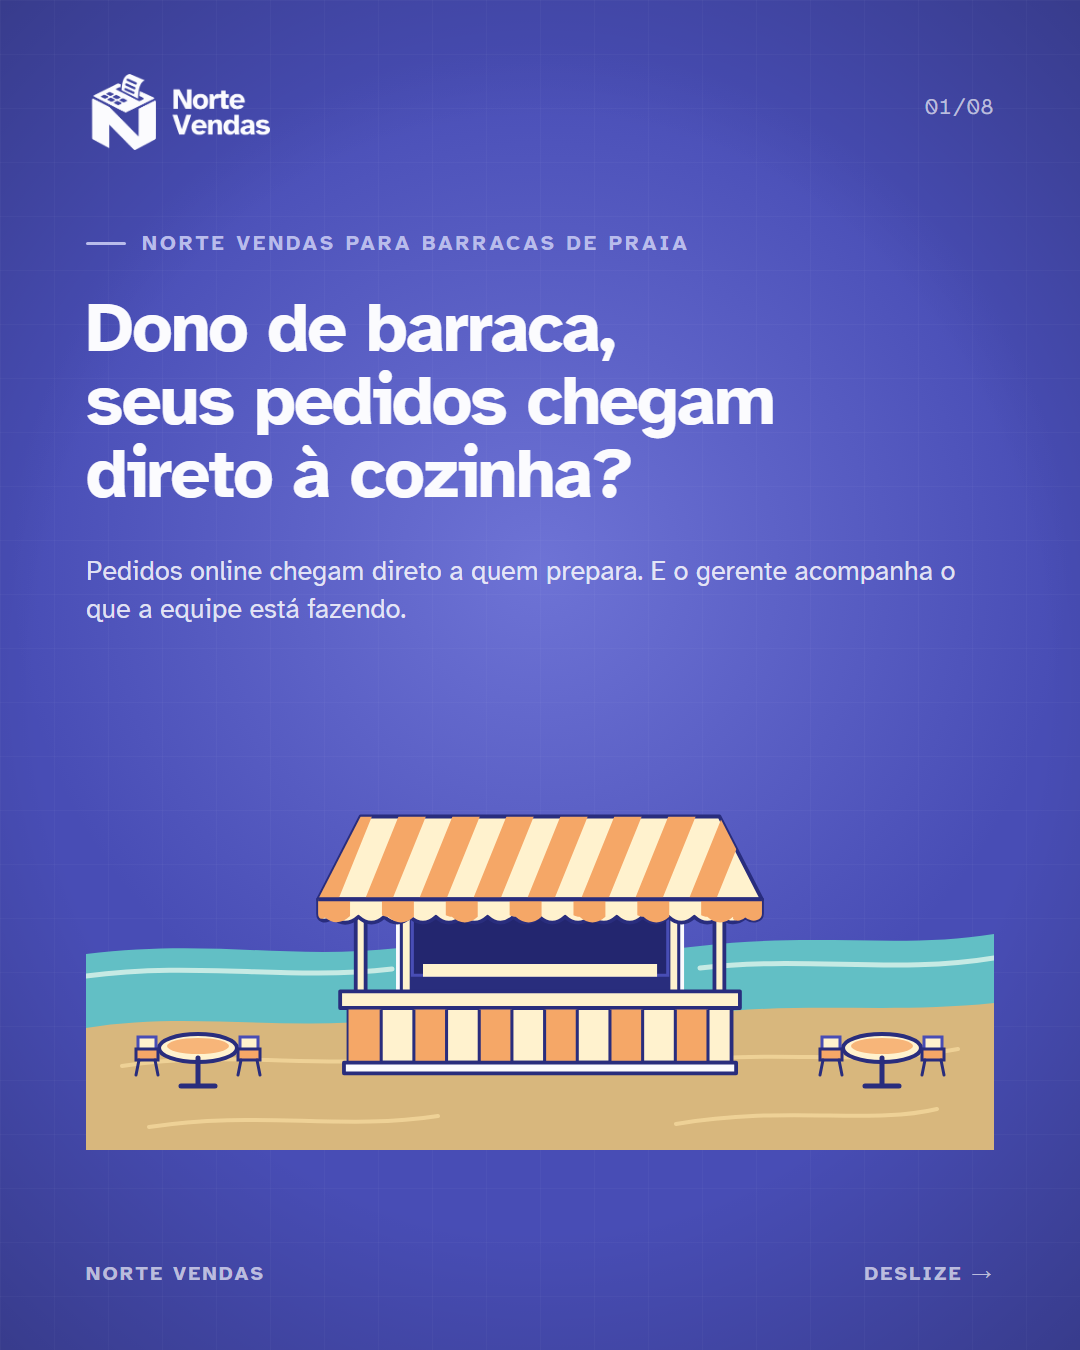
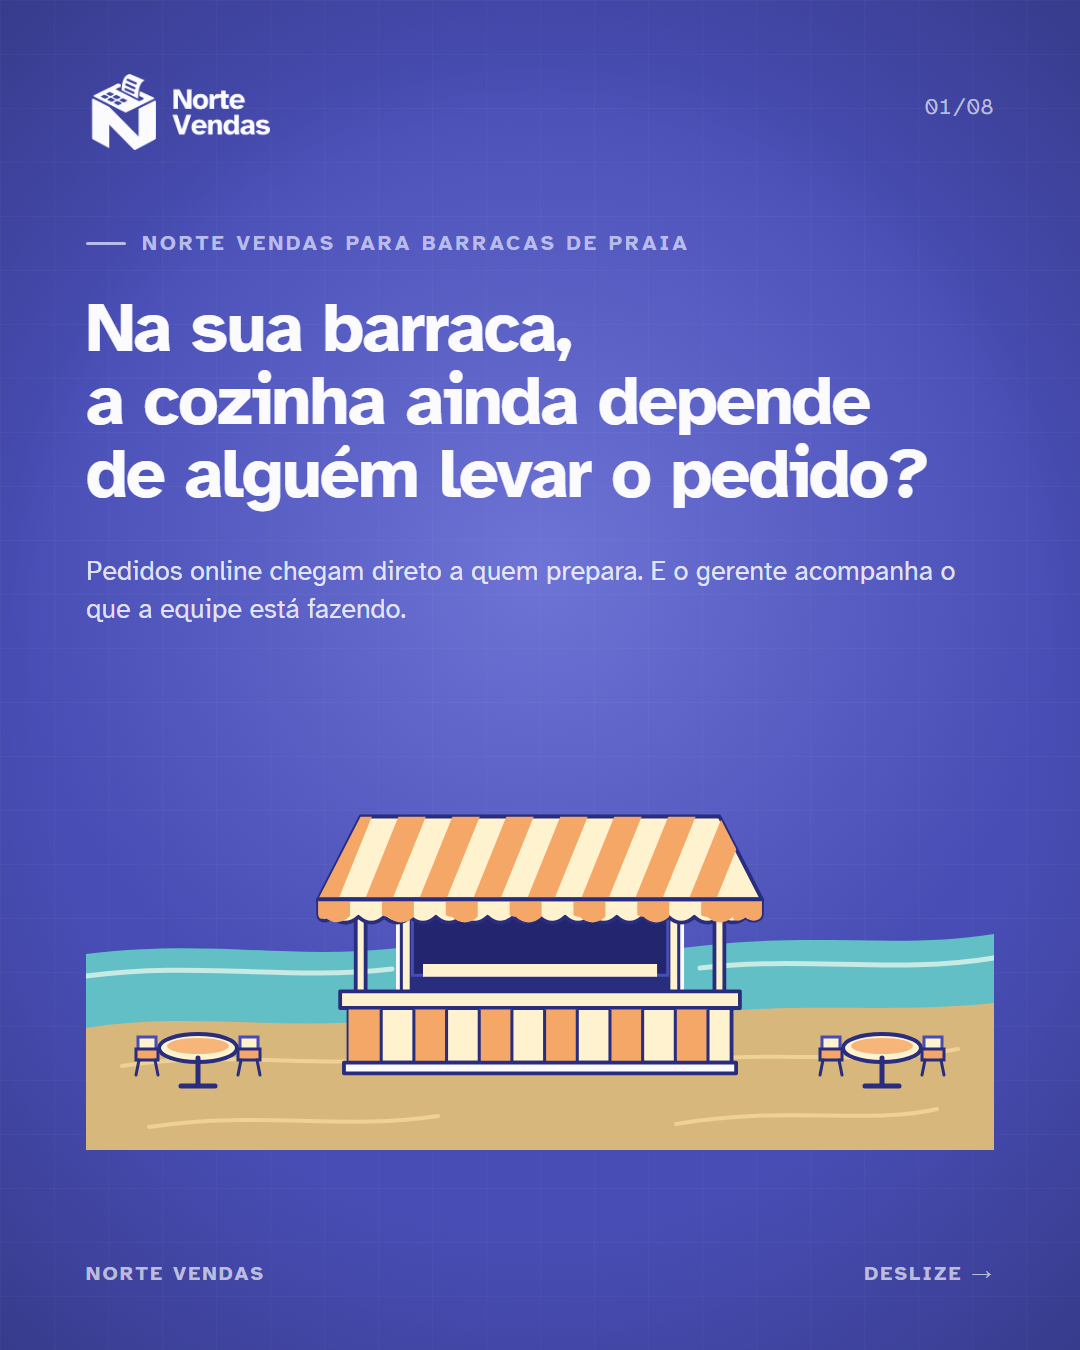
Atualiza gancho da capa do Norte Vendas para barracas

Changed region(s): [[0.0611, 0.2178, 0.8556, 0.3733]]

diff --git a/src/templates/NorteVendasBarracaPraia.tsx b/src/templates/NorteVendasBarracaPraia.tsx
@@ -181,7 +181,7 @@ const CoverScene: React.FC = () => {
     <span style={{position: 'absolute', right: PAD, top: 92, fontFamily: MONO, fontSize: 22, color: mute('product')}}>01/08</span>
     <Eyebrow tone="product" top={230}>Norte Vendas para barracas de praia</Eyebrow>
     <h1 style={{position: 'absolute', left: PAD, right: PAD, top: 292, margin: 0, fontFamily: SANS, fontWeight: 700, fontSize: 70, lineHeight: 1.04, letterSpacing: -1.75, color: WHITE}}>
-      Dono de barraca,<br />seus pedidos chegam<br />direto à cozinha?
+      Na sua barraca,<br />a cozinha ainda depende<br />de alguém levar o pedido?
     </h1>
     <p style={{position: 'absolute', left: PAD, top: 552, width: 890, margin: 0, fontFamily: SANS, fontSize: 27, lineHeight: 1.42, color: 'rgba(251,251,254,.86)'}}>
       Pedidos online chegam direto a quem prepara. E o gerente acompanha o que a equipe está fazendo.

diff --git a/conteudo ntb/02-carrosseis/Norte Vendas - Barraca de Praia/COPY.md b/conteudo ntb/02-carrosseis/Norte Vendas - Barraca de Praia/COPY.md
@@ -2,7 +2,7 @@
 
 ## Slide 1 | Capa
 
-**Dono de barraca, seus pedidos chegam direto à cozinha?**
+**Na sua barraca, a cozinha ainda depende de alguém levar o pedido?**
 
 No meio do atendimento, o Norte Vendas conecta o registro do pedido à cozinha e dá ao gerente visibilidade da equipe.
 
